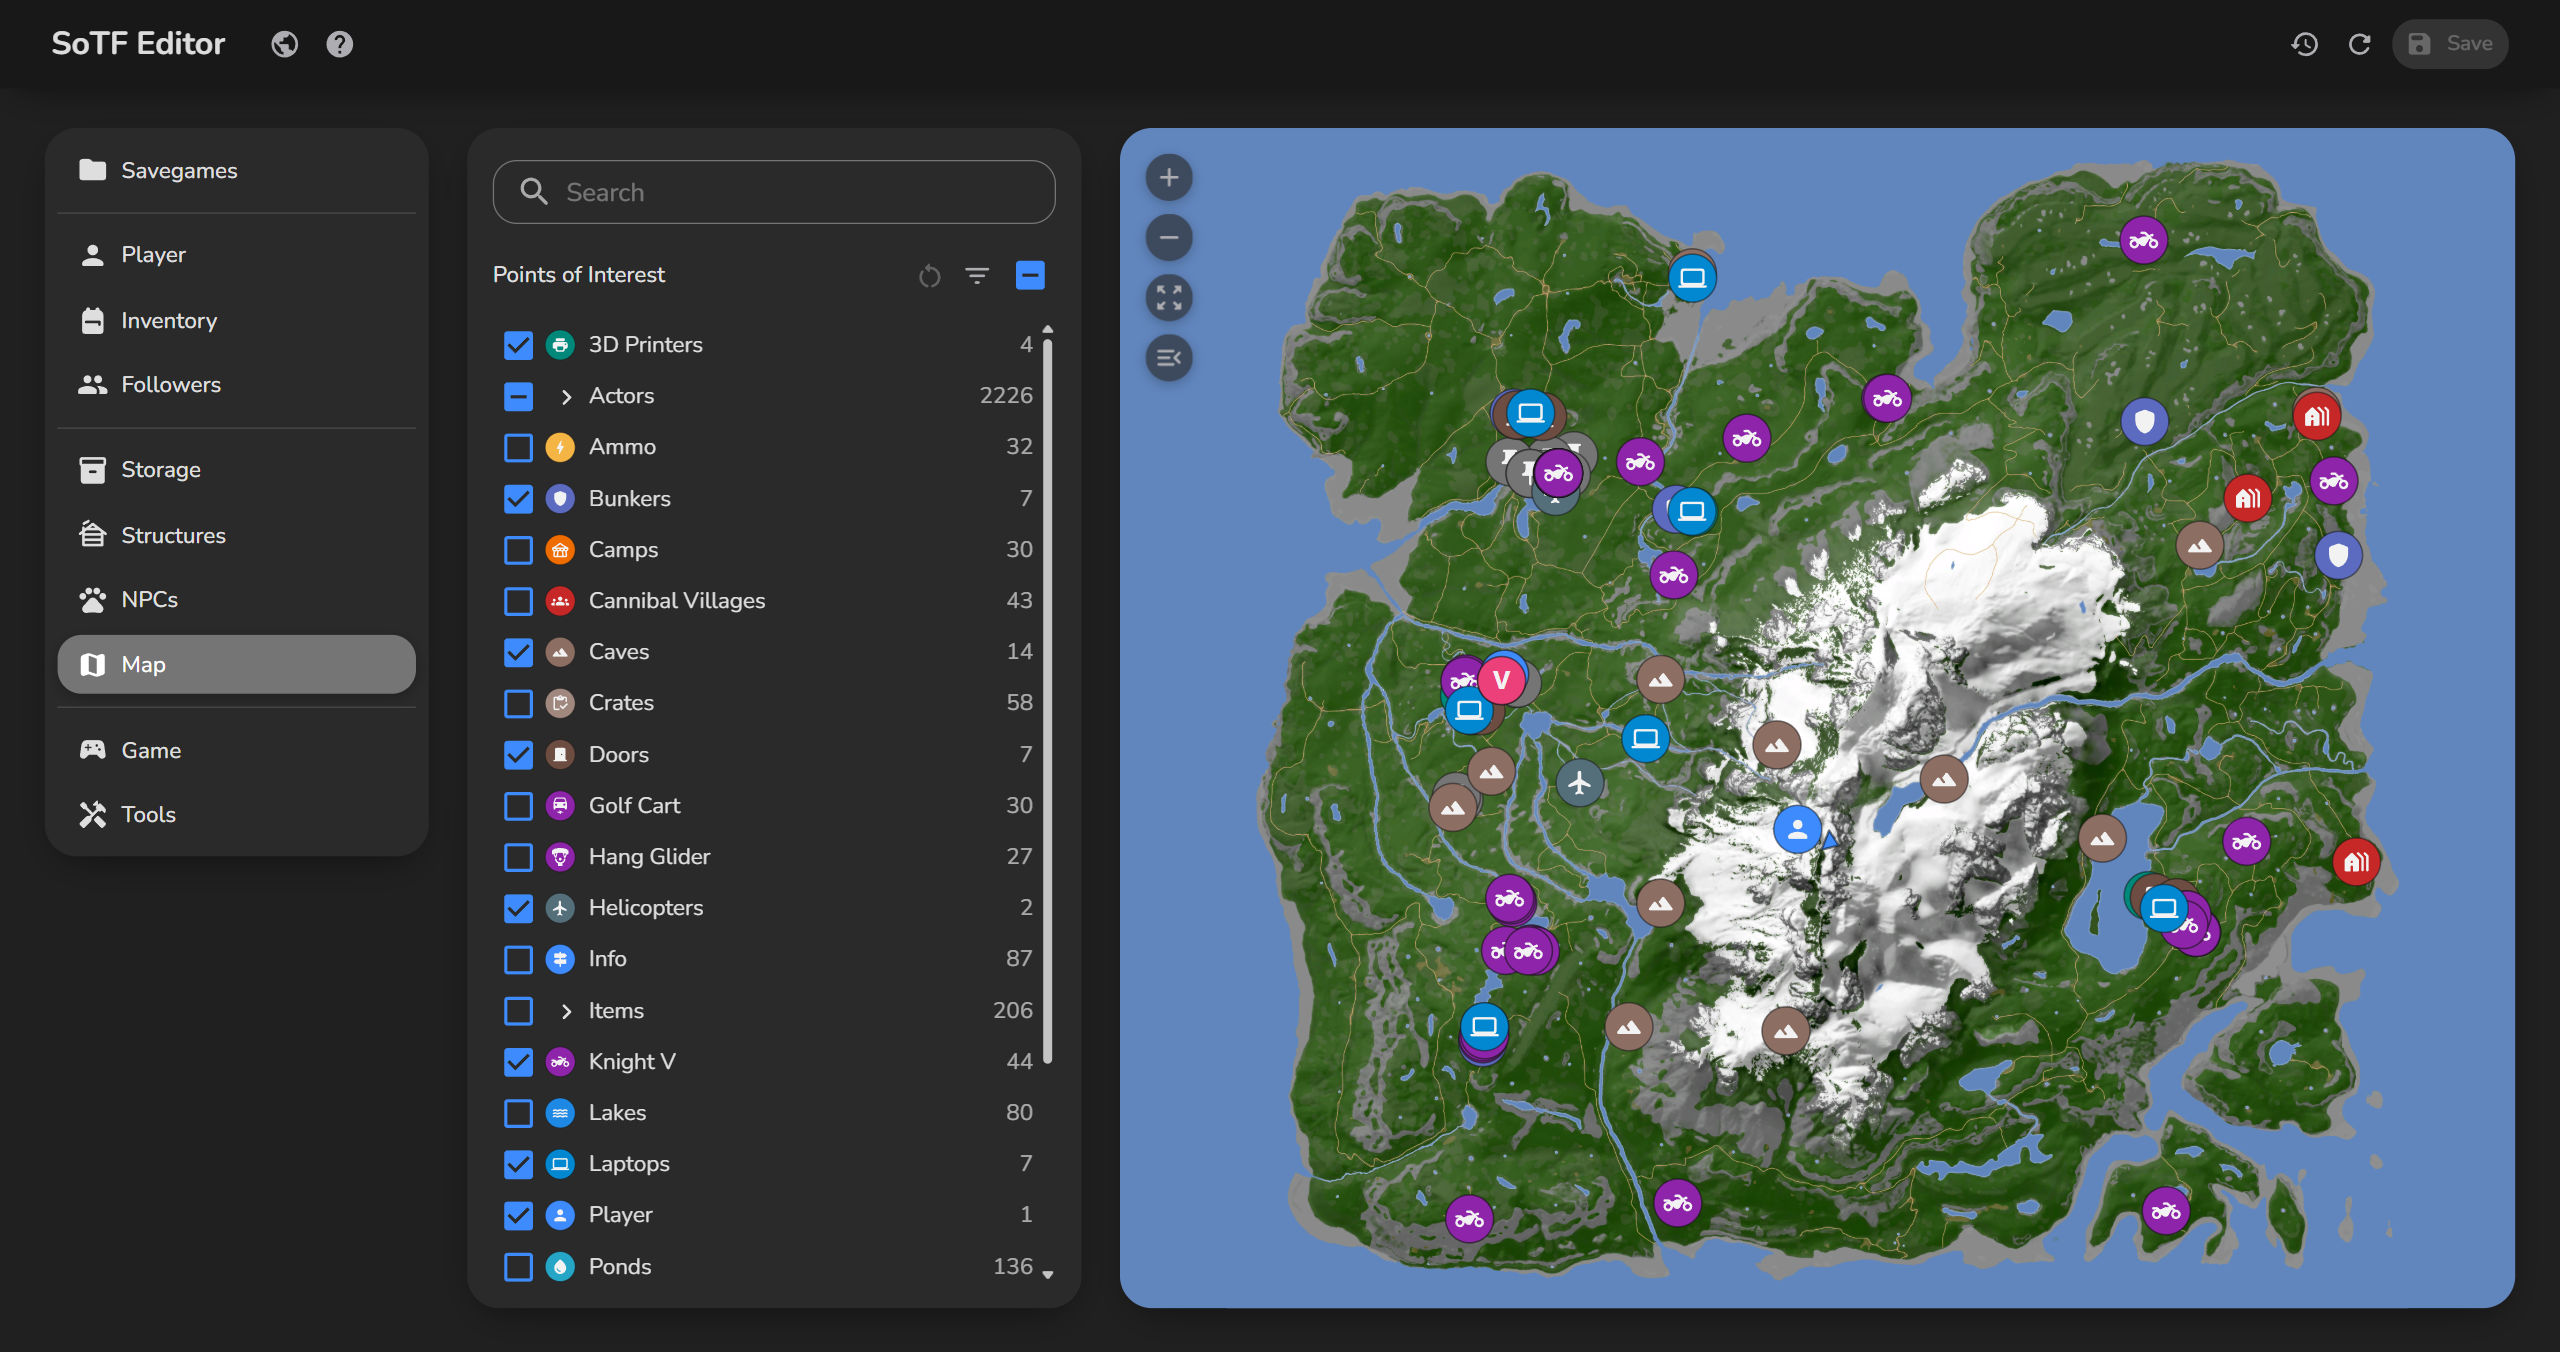
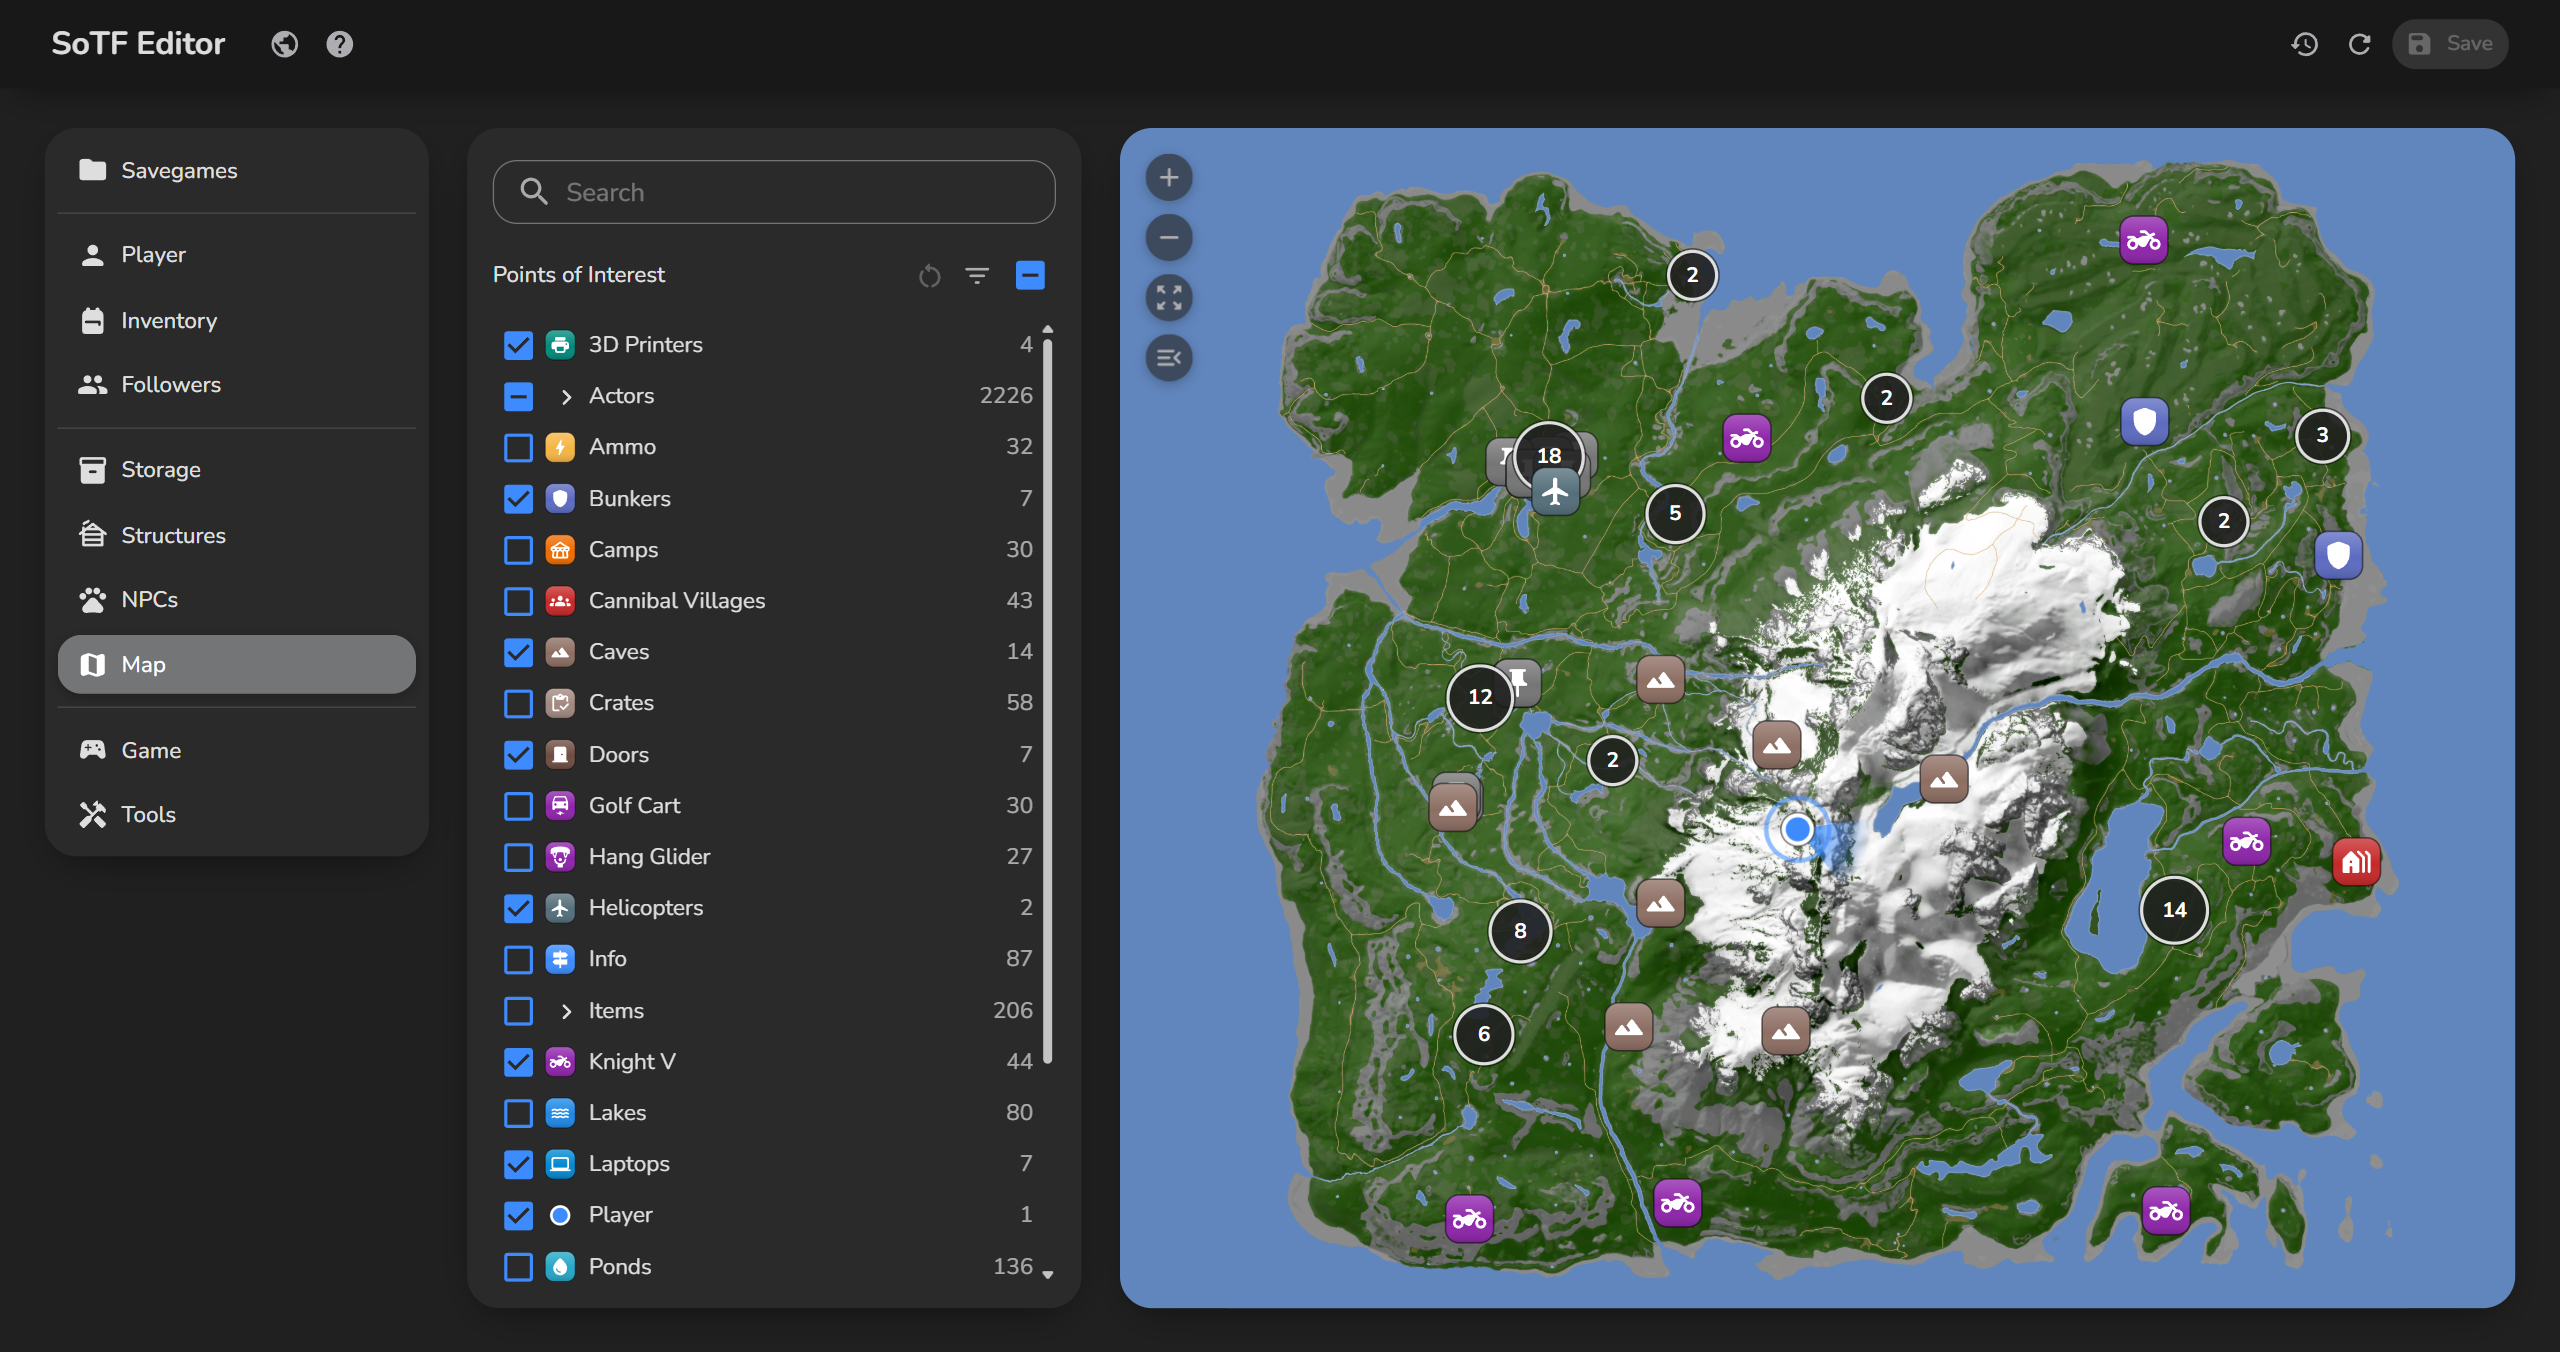
Map Bubbles That Never Overlap and New Screenshots

diff --git a/SoTF.Editor.Desktop/wwwroot/JS/AppShell.js b/SoTF.Editor.Desktop/wwwroot/JS/AppShell.js
@@ -103,30 +103,44 @@ window.sotfMap = (() => {
     const dragThreshold = 4;
     const manyPoints = 1500;
     const glideTime = 250;
-    const clusterPixels = 44;
+    const clusterPixels = 52;
     let state = null;
     let settle = 0;
     let frame = 0;
     let clusterTimer = 0;
 
-    // Points Sharing A Screen Cell Become One Count Bubble
+    // Points Near A Group's First Point Join It, A Grid Finds Neighbours
     const cluster = () => {
         if (!state?.clusters?.isConnected) return;
         const icons = state.canvas.querySelectorAll(".map-poi[data-keyclick]:not([data-solo])");
-        const cells = new Map();
+        const groups = [];
         if (state.zoom < maxZoom * 0.99) {
-            const size = clusterPixels / state.zoom;
+            const radius = clusterPixels / state.zoom;
+            const seeds = new Map();
+            const cellOf = (x, y) => [Math.floor(x / radius), Math.floor(y / radius)];
             for (const icon of icons) {
                 const x = parseFloat(icon.style.left);
                 const y = parseFloat(icon.style.top);
-                const key = `${Math.floor(x / size)},${Math.floor(y / size)}`;
-                if (!cells.has(key)) cells.set(key, []);
-                cells.get(key).push({ icon, x, y });
+                const [column, row] = cellOf(x, y);
+                let home = null;
+                for (let stepX = -1; stepX <= 1 && !home; stepX++) {
+                    for (let stepY = -1; stepY <= 1 && !home; stepY++) {
+                        home = (seeds.get(`${column + stepX},${row + stepY}`) ?? []).find((group) => Math.hypot(group.x - x, group.y - y) < radius);
+                    }
+                }
+                if (home) {
+                    home.members.push({ icon, x, y });
+                } else {
+                    const group = { x, y, members: [{ icon, x, y }] };
+                    groups.push(group);
+                    if (!seeds.has(`${column},${row}`)) seeds.set(`${column},${row}`, []);
+                    seeds.get(`${column},${row}`).push(group);
+                }
             }
         }
         const grouped = new Set();
         const bubbles = [];
-        for (const members of cells.values()) {
+        for (const { members } of groups) {
             if (members.length < 2) continue;
             const xs = members.map((member) => member.x);
             const ys = members.map((member) => member.y);

diff --git a/CLAUDE.md b/CLAUDE.md
@@ -178,7 +178,7 @@ The last table row has no bottom line. A table whose rows virtualize keeps its c
 - Rows, cards and map points that select or open something carry `role="button"`, `tabindex` and `data-keyclick`; one handler in `AppShell.js` answers Enter and Space on them. The map is one tab stop: the arrow keys step through the visible points and pan to each, Enter selects. `[data-keyclick]:focus-visible` draws the focus ring.
 - The player is a blue dot with a white rim (`player.svg`) over a soft blue cone that points where the player looked when the game saved, with a slow ripple (`map-heading`, `map-heading-pulse`, still for reduced motion): `player.rotation` is a Unity quaternion, read as a turn about the up axis into `PlayerState.Heading` and measured on the map through `CoordinateConverter.MapAngle`. Map icons never rotate otherwise; the old `Position.Rotation` was never set and is gone. Every black edge on the map is 50% (the owner's pick): each icon SVG's `stroke-opacity`, and `--map-edge` for the ring, the zipline edge, the picture tiles and the bubbles.
 - Map icons are rounded tiles (`rx` 17 of 64, `--map-tile-radius` 28% in CSS): the group colour with a soft top light (`shade` gradient), a 50% black edge and a white glyph at 42 of 64, so it reads at 32 px; they were round with a 36 of 64 glyph. Item and creature pictures (`.png`, creature icons are only 32 px) sit on a dark tile of the same shape with 3 px padding (`.map-poi[src$=".png"]`), so they never upscale at 125% and line up with the icons. A hovered point grows (`scale` 1.2, only `scale` eases, so zooming never lags) and shows its name in a glass tag over it (`map-label`, a Blazor-rendered empty span in the map panel that `sotfMap` fills, hidden while the map moves); points carry no native `title`, only `alt`.
-- Points that share a 44 px screen cell fold into a count bubble (`map-cluster` in the `map-clusters` layer, under the icons so the player and anchors stay on top): `sotfMap` groups them 120 ms after the zoom settles or icons change (a `MutationObserver` on the canvas) and hides the members (`clustered`, skipped by the arrow keys). The player and zipline anchors never fold (`data-solo`), and at the deepest zoom nothing folds, so a real stack still opens N Points Here. A bubble click glides in until its points part and never reaches Blazor. CDP screenshots do not show hover, so check the label by showing it from script.
+- Points within 52 px on screen of a group's first point fold into one count bubble (a grid of that size finds the neighbours, so bubbles never stack like grid cells did) (`map-cluster` in the `map-clusters` layer, under the icons so the player and anchors stay on top): `sotfMap` groups them 120 ms after the zoom settles or icons change (a `MutationObserver` on the canvas) and hides the members (`clustered`, skipped by the arrow keys). The player and zipline anchors never fold (`data-solo`), and at the deepest zoom nothing folds, so a real stack still opens N Points Here. A bubble click glides in until its points part and never reaches Blazor. CDP screenshots do not show hover, so check the label by showing it from script.
 - Max Health is derived, so it shows as a read-only bar (`StatSlider ReadOnly`), not a slider, with an info icon saying it follows the strength level.
 - Buttons are never outlined: filled for actions, text for quiet ones, icon buttons in menus. A small text button with an icon takes the filled buttons' 10 px side padding, or its icon touched the hover edge (MudBlazor gives text buttons 5 px). A choice between two views (By Type, By Family) is a `MudButtonGroup` (`OverrideStyles` false) of two small filled buttons, `Color.Info` when selected and `Color.Default` otherwise; a text button there looked see-through, and `MudToggleGroup` draws outlined items.
 - Every number field is `NumberField`, a `MudNumericField` whose boxless wrapper (`display: contents`) marks `at-min` and `at-max`, so a spin button that cannot move is greyed out and ignores clicks; MudBlazor only disables them with the whole field.
